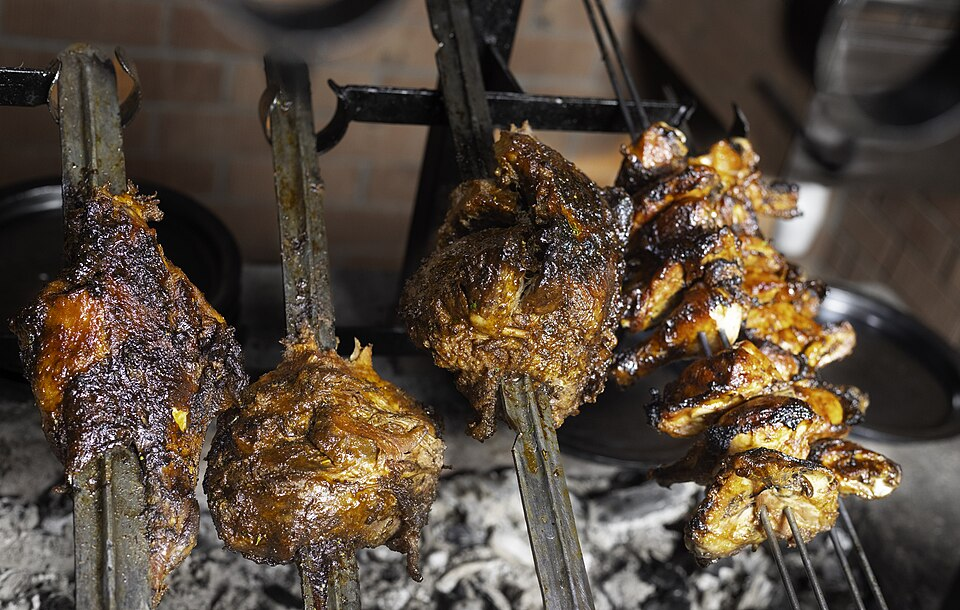
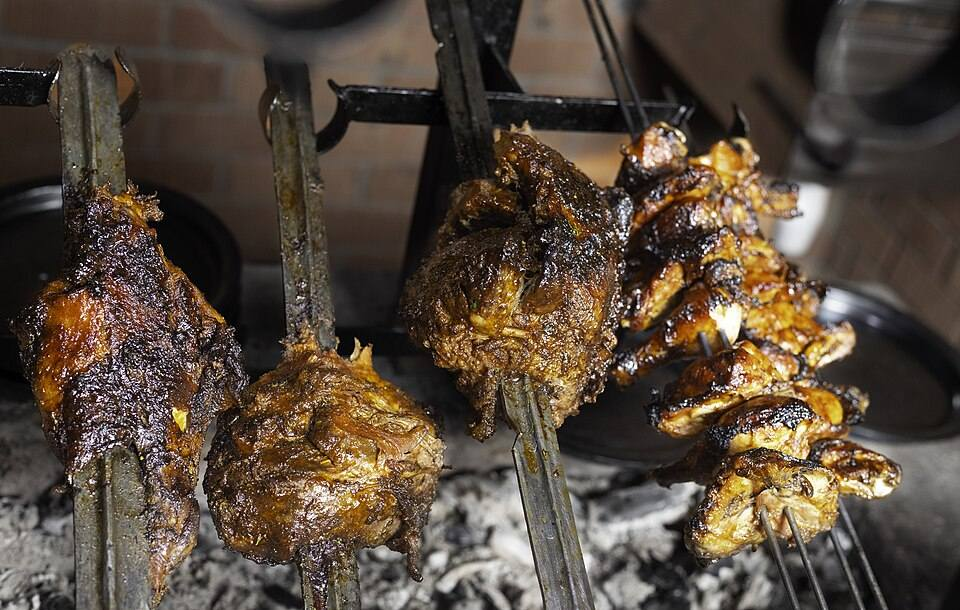
Fix final project audit issues

diff --git a/final/form-action.html b/final/form-action.html
@@ -6,7 +6,7 @@
   <meta name="description" content="Review the Kansanga food recommendation you just submitted, or return to the neighborhood guide.">
   <meta name="author" content="Dira Luke">
   <meta property="og:type" content="website">
-  <meta property="og:title" content="Recommendation received | Kampala Food Explorer">
+  <meta property="og:title" content="Food Recommendation Received | Kampala Food Explorer">
   <meta property="og:description" content="Review the food recommendation you just shared and keep exploring Kampala's food culture.">
   <meta property="og:image" content="https://lukedira02-boop.github.io/wdd231/final/images/provided-food-3.webp">
   <meta property="og:url" content="https://lukedira02-boop.github.io/wdd231/final/form-action.html">

diff --git a/final/attributions.html b/final/attributions.html
@@ -6,7 +6,7 @@
   <meta name="description" content="Credits for the writing, design, code, and supplied food and restaurant photographs used in Kampala Food Explorer.">
   <meta name="author" content="Dira Luke">
   <meta property="og:type" content="website">
-  <meta property="og:title" content="Attributions | Kampala Food Explorer">
+  <meta property="og:title" content="Sources and Credits | Kampala Food Explorer">
   <meta property="og:description" content="Credits for the content, images, and code in the Kampala Food Explorer student project.">
   <meta property="og:image" content="https://lukedira02-boop.github.io/wdd231/final/images/provided-food-2.webp">
   <meta property="og:url" content="https://lukedira02-boop.github.io/wdd231/final/attributions.html">

diff --git a/final/places.html b/final/places.html
@@ -6,7 +6,7 @@
   <meta name="description" content="A thoughtful Kansanga food-neighborhood guide with practical ways to explore markets, casual counters, and share a recommendation.">
   <meta name="author" content="Dira Luke">
   <meta property="og:type" content="website">
-  <meta property="og:title" content="Explore Kansanga | Kampala Food Explorer">
+  <meta property="og:title" content="Explore Kansanga Food Places | Kampala Food Explorer">
   <meta property="og:description" content="Explore the flavors and everyday food places around Kansanga, and share a thoughtful recommendation.">
   <meta property="og:locale" content="en_UG">
   <meta property="og:image" content="https://lukedira02-boop.github.io/wdd231/final/images/provided-food-3.webp">

diff --git a/final/foods.html b/final/foods.html
@@ -6,7 +6,7 @@
   <meta name="description" content="Browse a searchable field guide to Ugandan dishes, learn what goes into each one, and save favorites to a local tasting list.">
   <meta name="author" content="Dira Luke">
   <meta property="og:type" content="website">
-  <meta property="og:title" content="Ugandan Foods | Kampala Food Explorer">
+  <meta property="og:title" content="Ugandan Foods and Dishes | Kampala Food Explorer">
   <meta property="og:description" content="A searchable guide to Ugandan dishes, everyday ingredients, and ways to enjoy them.">
   <meta property="og:locale" content="en_UG">
   <meta property="og:image" content="https://lukedira02-boop.github.io/wdd231/final/images/provided-food-2.webp">
